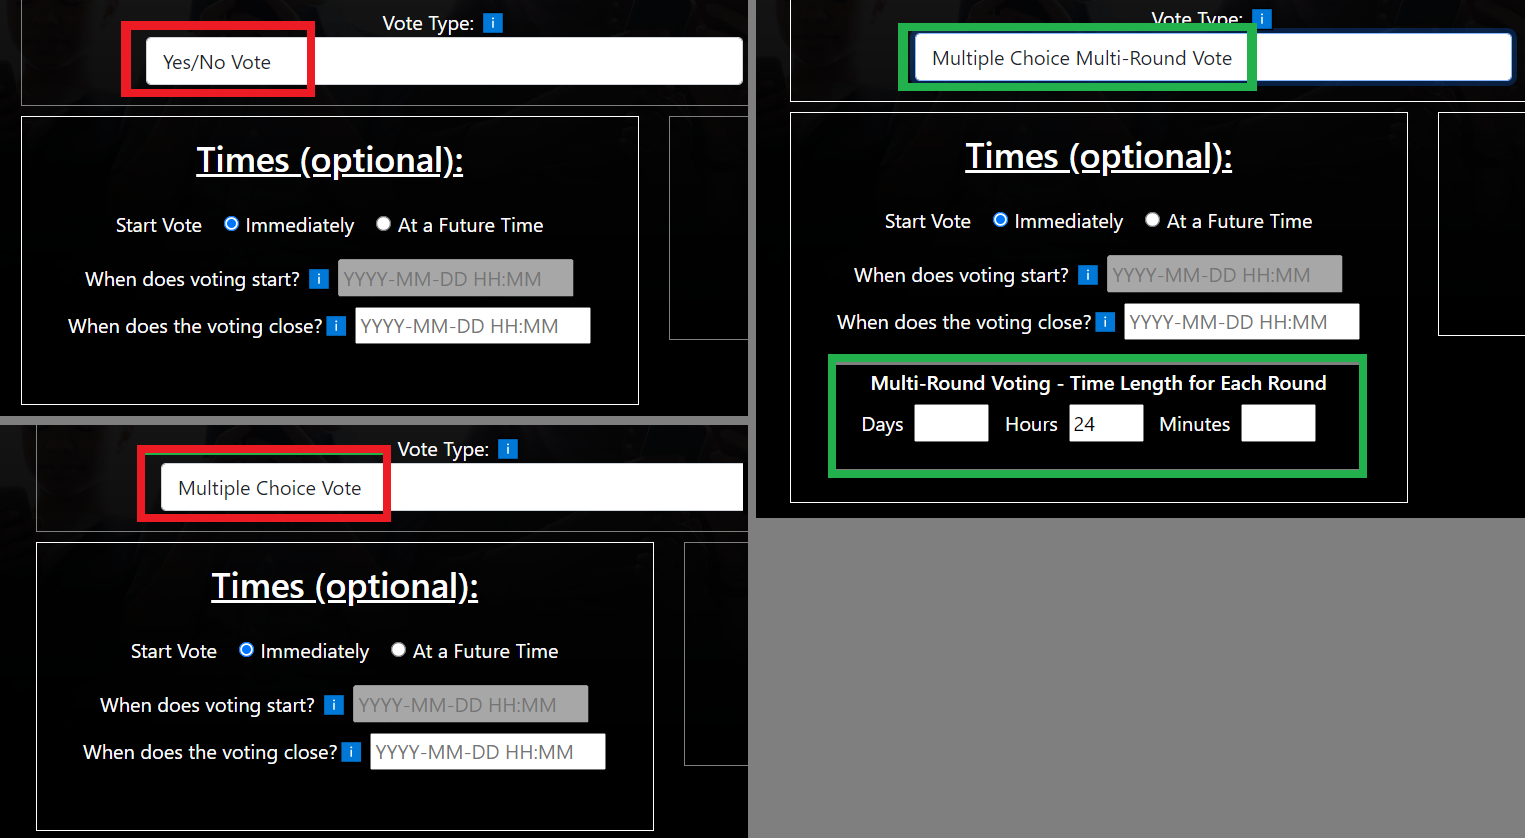
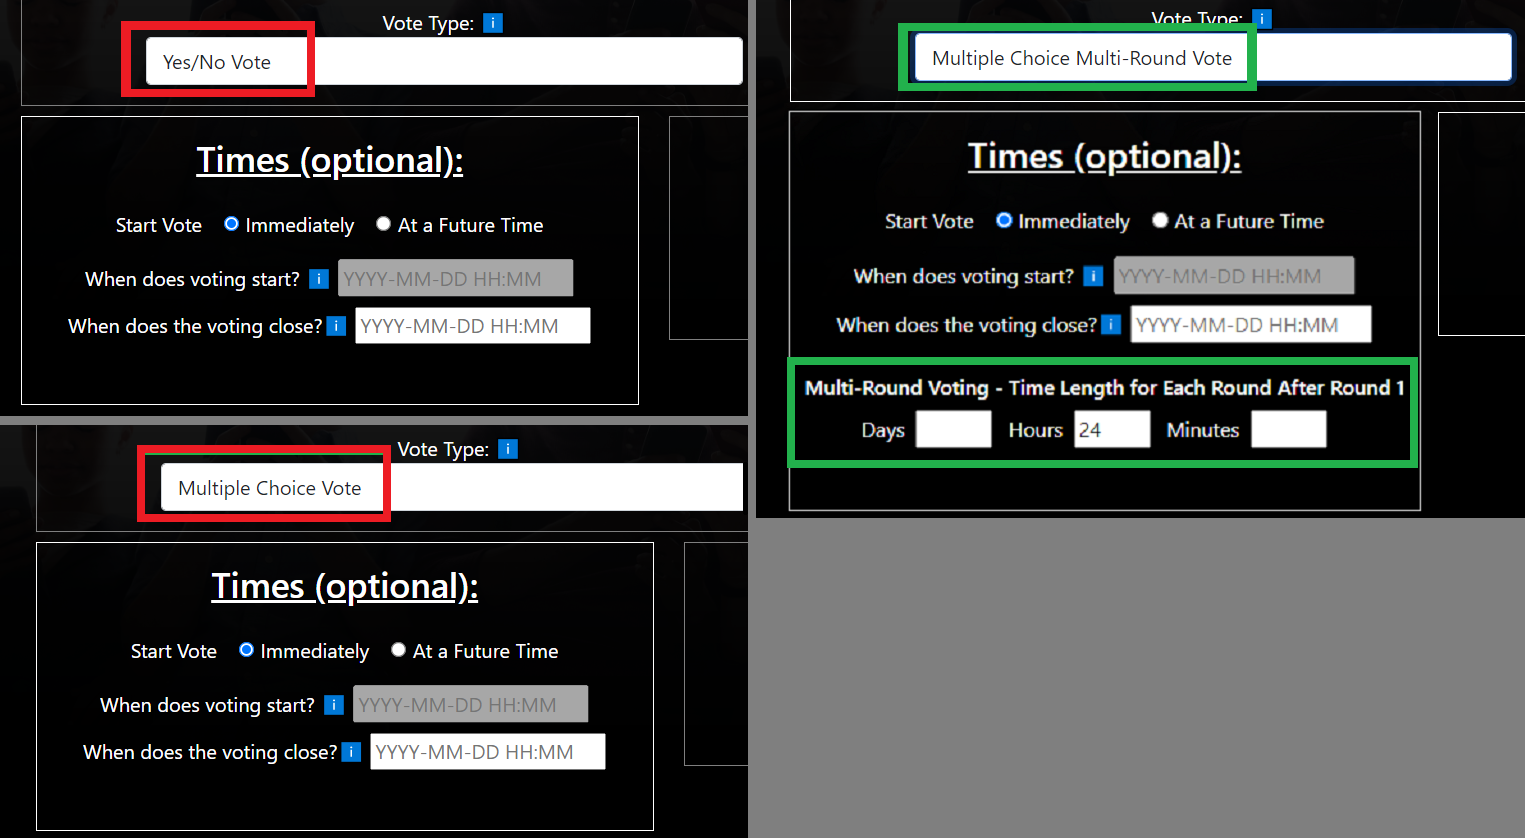
additional changes for VA 241 -changes to modeling docs -changes to API controller for new duration fields -added validation for duration fields -added unit testing for new repo method

Changed region(s): [[0.4931, 0.3103, 0.9554, 0.6205], [0.5239, 0.1241, 0.9246, 0.2172], [0.5856, 0.2482, 0.863, 0.2792]]

diff --git a/source/VotingApp/Tests_NUnit_Voting_App/Tests_Vince.cs b/source/VotingApp/Tests_NUnit_Voting_App/Tests_Vince.cs
@@ -27,6 +27,9 @@ namespace Tests_NUnit_Voting_App
         private List<SubmittedVote> _submittedVotes;
         private List<VotingUser> _votingUsers;
         private List<AppLog> _appLogs;
+        private List<VoteTimeZone> _voteTimeZones;
+        private Mock<DbSet<VoteTimeZone>> _voteTimeZonesSet;
+
 
 
         private Mock<DbSet<T>> GetMockDbSet<T>(IQueryable<T> entities) where T : class
@@ -41,6 +44,13 @@ namespace Tests_NUnit_Voting_App
         [SetUp]
         public void Setup()
         {
+            _voteTimeZones = new List<VoteTimeZone>()
+            {
+                new VoteTimeZone { Id = 1, TimeName = "Pacific Standard Time" },
+                new VoteTimeZone { Id = 2, TimeName = "Dateline Standard Time" },
+                new VoteTimeZone { Id = 3, TimeName = "UTC-11" },
+            };
+
             _voteTypes = new List<VoteType>()
             {
                 new VoteType { Id = 1,VotingType ="Yes/No Vote" ,VoteTypeDescription = "yes/no discription" },
@@ -133,7 +143,8 @@ namespace Tests_NUnit_Voting_App
                 VoteCloseDateTime = pastDate,
                 VoteTypeId = 3,
                 AnonymousVote = false,
-                NextRoundId = 0
+                NextRoundId = 0,
+                TimeZone = new VoteTimeZone { Id = 1, TimeName = "Alaskan Standard Time" }
             }); ;
 
             //act
@@ -160,7 +171,8 @@ namespace Tests_NUnit_Voting_App
                 VoteCloseDateTime = futureDate,
                 VoteTypeId = 3,
                 AnonymousVote = false,
-                NextRoundId = 0
+                NextRoundId = 0,
+                TimeZone = new VoteTimeZone { Id = 1, TimeName = "Alaskan Standard Time" }
             }); ;
 
             //act
@@ -327,6 +339,44 @@ namespace Tests_NUnit_Voting_App
 
             // assert
             Assert.IsNotNull(submittedVote);
+        }
+
+        [Test]
+        //VA-241 As a logged-in user I want to be able to set the duration time when I create a multi-round vote, so I can control how long each round of voting will be open
+        public void VA241_CreatedVoteRepo_GetMultiRoundVoteDuration_ShouldReturnRoundDurationForValidMultiRoundVoteId()
+        {
+            // arrange
+            EmailConfiguration emailConfig = new EmailConfiguration();
+            IEmailSender emailSender = new EmailSender(emailConfig);
+            ICreatedVoteRepository repo = new CreatedVoteRepository(_mockContext.Object, emailSender);
+
+            repo.AddOrUpdate(new CreatedVote { Id = 4, VoteType = _voteTypes[2], AnonymousVote = true, UserId = 1, VoteTitle = "Multi-round Vote", VoteDiscription = "Multi-round description", RoundDays=2, RoundHours=5, RoundMinutes=30 });
+
+
+            // act
+            string testRoundDuration = repo.GetMultiRoundVoteDuration(4);
+
+
+            // assert
+            Assert.True(testRoundDuration == "2,5,30");
+        }
+
+        [Test]
+        //VA-241 As a logged-in user I want to be able to set the duration time when I create a multi-round vote, so I can control how long each round of voting will be open
+        public void VA241_CreatedVoteRepo_GetMultiRoundVoteDuration_ShouldReturnEmptyStringForInvalidVoteId()
+        {
+            // arrange
+            EmailConfiguration emailConfig = new EmailConfiguration();
+            IEmailSender emailSender = new EmailSender(emailConfig);
+            ICreatedVoteRepository repo = new CreatedVoteRepository(_mockContext.Object, emailSender);
+
+
+            // act
+            string testRoundDuration = repo.GetMultiRoundVoteDuration(8);
+
+
+            // assert
+            Assert.True(testRoundDuration == "");
         }
     }
 }

diff --git a/source/VotingApp/VotingApp/Controllers/CreateController.cs b/source/VotingApp/VotingApp/Controllers/CreateController.cs
@@ -86,7 +86,7 @@ namespace VotingApp.Controllers
 
         [HttpPost]
         [ValidateAntiForgeryToken]
-        public IActionResult Index([Bind("VoteTypeId,VoteTitle,VoteDiscription,AnonymousVote,VoteOpenDateTime,VoteCloseDateTime, PrivateVote, TimeZoneId")]CreatedVote createdVote)
+        public IActionResult Index([Bind("VoteTypeId,VoteTitle,VoteDiscription,AnonymousVote,VoteOpenDateTime,VoteCloseDateTime, PrivateVote,RoundDays,RoundHours,RoundMinutes, TimeZoneId")]CreatedVote createdVote)
         {
             
             ModelState.Remove("VoteType");
@@ -159,7 +159,7 @@ namespace VotingApp.Controllers
         }
         [HttpPost]
         [ValidateAntiForgeryToken]
-        public IActionResult edit([Bind("Id,VoteTypeId,VoteTitle,VoteDiscription,AnonymousVote,VoteOption,VoteOpenDateTime,VoteCloseDateTime,VoteAccessCode, PrivateVote, TimeZoneId")] CreatedVote createdVote, int oldVoteTypeId)
+        public IActionResult edit([Bind("Id,VoteTypeId,VoteTitle,VoteDiscription,AnonymousVote,VoteOption,VoteOpenDateTime,VoteCloseDateTime,VoteAccessCode, PrivateVote,RoundDays,RoundHours,RoundMinutes, TimeZoneId")] CreatedVote createdVote, int oldVoteTypeId)
         {
             ModelState.Remove("VoteType");
             ModelState.Remove("VoteAccessCode");

diff --git a/source/VotingApp/VotingApp/DAL/Concrete/CreatedVoteRepository.cs b/source/VotingApp/VotingApp/DAL/Concrete/CreatedVoteRepository.cs
@@ -129,7 +129,18 @@ namespace VotingApp.DAL.Concrete
         }
         public IList<CreatedVote> GetAllClosedMultiRoundVotes()
         {
-            return _context.CreatedVotes.Where(v => v.NextRoundId == 0 && v.VoteTypeId == 3 && v.VoteCloseDateTime != null && DateTime.Compare(TimeZoneInfo.ConvertTimeBySystemTimeZoneId(DateTime.Now, v.TimeZone.TimeName), v.VoteCloseDateTime.Value) > 0).ToList();
+            IList<CreatedVote> createdVote = _context.CreatedVotes.Where(v => v.NextRoundId == 0 && v.VoteTypeId == 3 && v.VoteCloseDateTime != null).ToList();
+            IList<CreatedVote> createdVote2= new List<CreatedVote>();
+            if (createdVote != null) {
+                foreach (CreatedVote cv in createdVote)
+                {
+                    if (DateTime.Compare(TimeZoneInfo.ConvertTimeBySystemTimeZoneId(DateTime.Now, cv.TimeZone.TimeName), cv.VoteCloseDateTime.Value) > 0) 
+                {
+                        createdVote2.Add(cv);
+                    }
+                }
+            }
+            return createdVote2;
         }
 
         public string GetMultiRoundVoteDuration(int id)

diff --git a/source/VotingApp/VotingApp/Controllers/ApiController.cs b/source/VotingApp/VotingApp/Controllers/ApiController.cs
@@ -234,7 +234,13 @@ namespace VotingApp.Controllers
             nextRound.RoundDays = roundDays;
             nextRound.RoundHours = roundHours;
             nextRound.RoundMinutes = roundMinutes;
-            nextRound.VoteTitle = currRound.VoteTitle + " - round " + ((int)currRound.RoundNumber + 1).ToString();
+            if (currRound.VoteTitle.Contains("- round") )
+            {
+                nextRound.VoteTitle = currRound.VoteTitle.Replace(("- round " + ((int)currRound.RoundNumber).ToString()), ("- round " + ((int)currRound.RoundNumber + 1).ToString()));
+            } else
+            {
+                nextRound.VoteTitle = currRound.VoteTitle + " - round " + ((int)currRound.RoundNumber + 1).ToString();
+            }
             nextRound.VoteDiscription = currRound.VoteDiscription;
             nextRound.AnonymousVote = currRound.AnonymousVote;
             nextRound.VoteTypeId = currRound.VoteTypeId;

diff --git a/docs/ProjectManagement/Modeling/VA-241/VA-241-Multi_Round_Voting.md b/docs/ProjectManagement/Modeling/VA-241/VA-241-Multi_Round_Voting.md
@@ -63,5 +63,4 @@ Mockup and class diagram:
 1. Create three new integer fields in CreatedVote table: RoundDays, RoundHours and RoundMinutes to indicate the duration for rounds of a multi-round vote after the first round
 2. Modify the Create a Vote page to add the three new fields, which should be displayed only if the voting type is multi-round voting
 3. Create new method in CreatedVoteRepository: GetMultiRoundVoteDuration, which takes the VoteId as a parameter, and returns the days, hours and minutes as a comma-separated string
-   (it will return all rows in the CreatedVote table where VotingType is 3, CloseDate is in the past, and NextRoundId is zero)
-4. Modify the endpoint in the ApiController that creates the next round of voting, to use the RoundDays, RoundHours and RoundMinutes fields, to set the Vote close time
+4. Modify the endpoint in the ApiController that creates the next round of voting, to use the RoundDays, RoundHours and RoundMinutes fields, to set the next round of voting's close date/time
